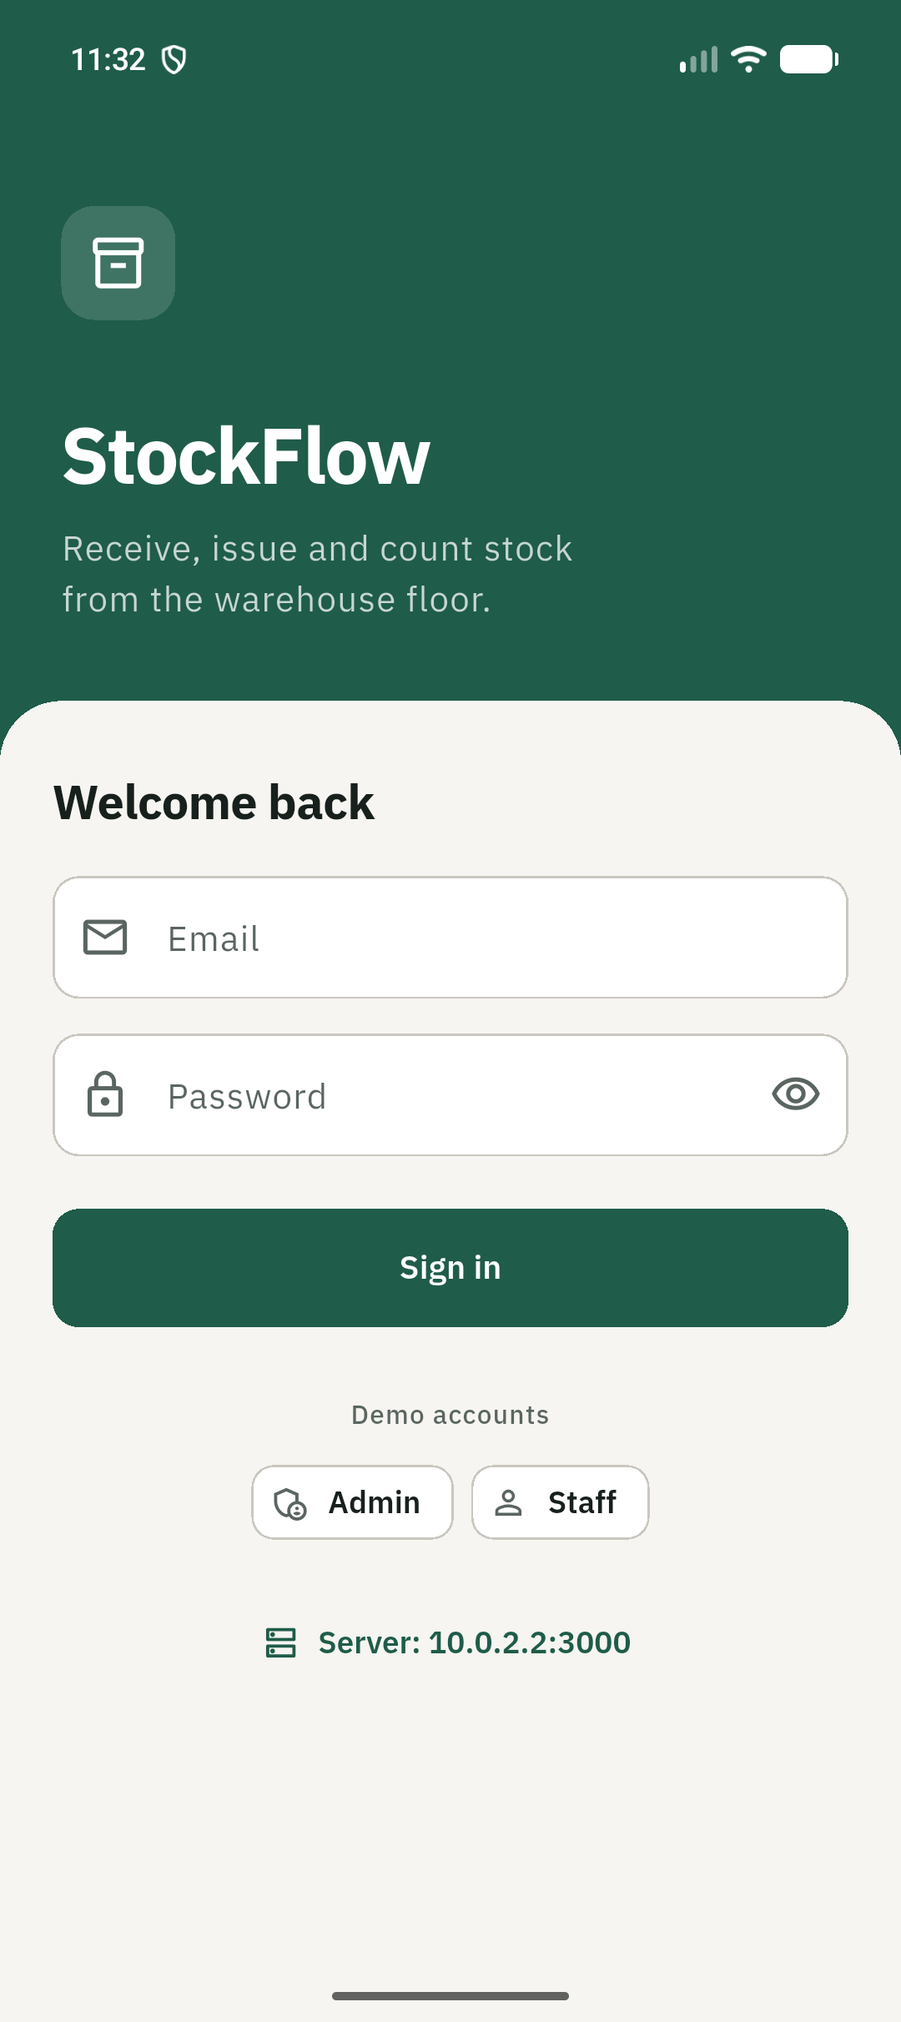
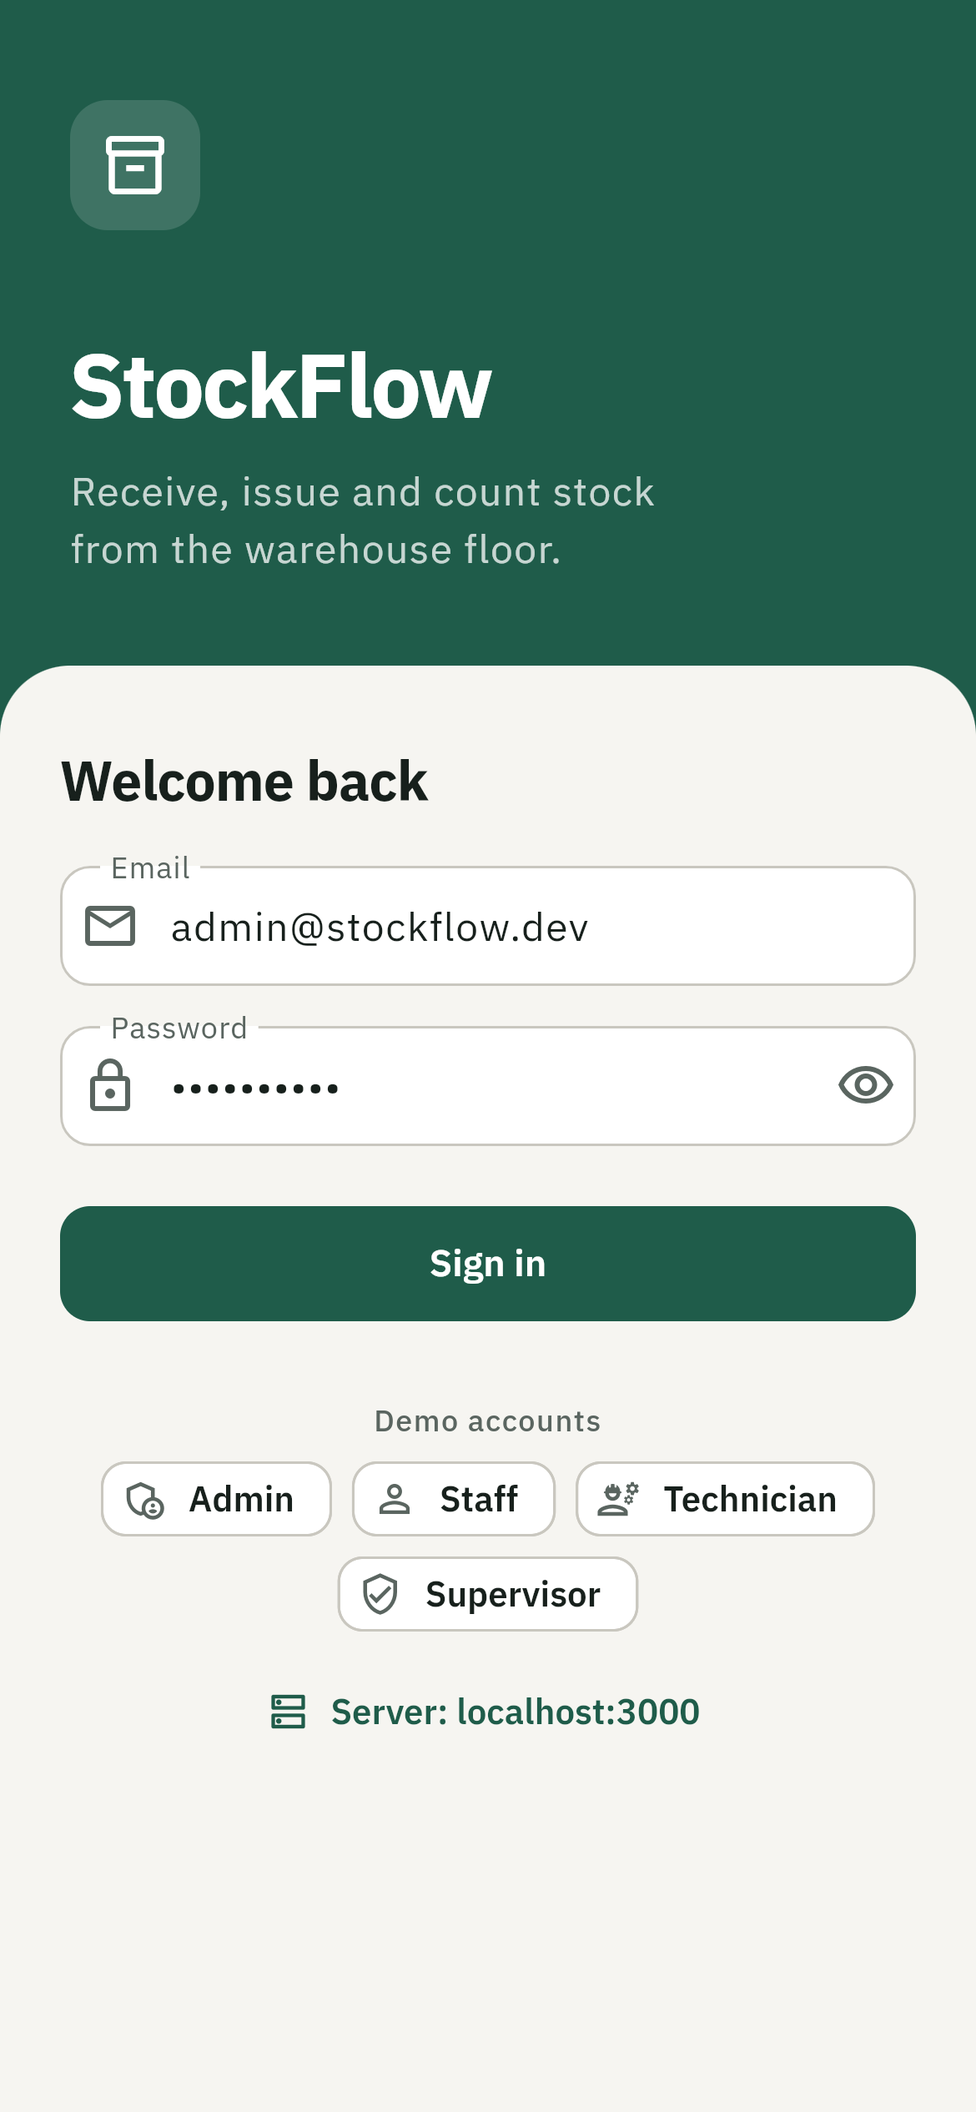
docs: inventory + field operations README, screenshots and docs
- README (EN/TH) now describes the combined product: workflow across the
  four roles, features, all demo accounts, new endpoints, real test
  counts (48 unit, 54 API, 65 Flutter), new seeds.
- Screenshots from the real app: technician job list and job detail,
  supervisor review; existing ones refreshed (login shows all roles).
- testing.md: work-order unit and API coverage, the live end-to-end run
  on Neon + Cloudinary and the measured latency before/after.
- security.md: authorization matrix for the four roles.
- offline-sync.md: work orders and linked drafts are online-only.
- architecture.md: links work-orders.md; module list updated.

diff --git a/README.md b/README.md
@@ -4,13 +4,19 @@
 
 [![CI](https://github.com/Foam-01/StockFlowMobile/actions/workflows/ci.yml/badge.svg)](https://github.com/Foam-01/StockFlowMobile/actions/workflows/ci.yml)
 
-A mobile inventory app for receiving, issuing and adjusting stock: barcode
-scanning, photo evidence, a live dashboard and a full, auditable movement
-history per product.
+**Inventory & field operations in one mobile app.** The warehouse receives,
+issues and adjusts stock. Managers create work orders and technicians
+complete them on site: checklist, before/after photos, materials issued from
+stock. Supervisors review and approve. Every stock movement and every
+work-order step is auditable.
 
 - **Mobile:** Flutter · Riverpod · go_router · Dio · mobile_scanner · sqflite
 - **Backend:** NestJS · Prisma · PostgreSQL (Neon) · JWT · Cloudinary
 - Built as a portfolio / demo project, run locally
+
+| Technician: jobs | Technician: job in progress | Supervisor: review |
+|---|---|---|
+| <img src="docs/screenshots/wo-tech-list.png" width="250" alt="Technician job list"> | <img src="docs/screenshots/wo-tech-detail.png" width="250" alt="Job with checklist and submit blockers"> | <img src="docs/screenshots/wo-review-detail.png" width="250" alt="Supervisor reviewing a submitted job"> |
 
 | Dashboard | Products | Product & history |
 |---|---|---|
@@ -20,36 +26,71 @@ history per product.
 |---|---|---|
 | <img src="docs/screenshots/operations.png" width="250" alt="Stock operations"> | <img src="docs/screenshots/new-operation.png" width="250" alt="New issue form"> | <img src="docs/screenshots/login.png" width="250" alt="Sign in"> |
 
+## How it fits together
+
+1. **Admin** creates a work order: site, checklist template, required
+   photos, planned materials, technician, optional reviewer.
+2. **Warehouse staff** issue the materials: an `ISSUE` document linked to the
+   job, pre-filled with what is still needed. Stock moves only when an admin
+   confirms it.
+3. **Technician** starts the job, ticks the checklist, adds notes and
+   before/after photos, and submits. The server refuses submission until
+   every required item and photo is there.
+4. **Supervisor** approves, or requests changes with a reason; the technician
+   resumes and resubmits.
+5. Every step is recorded in an append-only audit trail.
+
 ## Features
 
-- **Roles:** JWT login with `ADMIN` / `STAFF`; the token is kept in secure storage
+**Field operations**
+- Work orders with an explicit state machine
+  (`OPEN → IN_PROGRESS → SUBMITTED → APPROVED`, or `→ NEEDS_REVISION → IN_PROGRESS`; cancel with a reason)
+- Each transition is its own endpoint, checked on the server and applied
+  atomically with its audit event. Repeating a transition is harmless, and
+  concurrent decisions resolve to exactly one.
+- Checklists copied from templates (later template edits never change an
+  existing job); required before/after photos; planned vs issued materials
+  with shortage warnings
+- Role-based app: technicians see only their own jobs; supervisors start on
+  the review queue; buttons follow the server's `allowedActions`
+
+**Inventory**
 - **Dashboard:** stock KPIs, received vs issued over the last 7 days, products that need attention, recent activity
-- **Products:** search, category and low-stock filters, stock-level badges, infinite scroll
+- **Products:** search, category and low-stock filters, product photos, infinite scroll
 - **Barcode scanner:** scan to open a product, or scan items into a document (re-scan adds +1)
 - **Stock documents:** `RECEIVE`, `ISSUE` and `ADJUST`; `DRAFT` → `CONFIRMED` / `CANCELLED`
-  - stock only changes on confirm (admin), and can never be issued below zero, even with concurrent confirms
-  - resending a document with the same `clientUuid` never creates a duplicate
-- **Evidence photos:** camera or gallery, uploaded straight to Cloudinary with server-signed requests
+  - stock only changes on confirm (admin), and can never go below zero, even with concurrent confirms
+  - resending with the same `clientUuid` never creates a duplicate
+- **Evidence photos:** camera or gallery, uploaded straight to Cloudinary with server-signed, format- and size-limited requests
 - **Offline mode:** documents saved without a connection are queued in SQLite and synced automatically (no duplicates); products stay searchable and scannable offline
 - **History & audit:** movements per product with running balance; ledger vs cached stock check
-- Loading, empty and error states with retry on every screen
-- API docs via Swagger
 
-See **[docs/architecture.md](docs/architecture.md)** for diagrams: system overview, confirm flow, upload flow, offline sync and data model.
+**Engineering**
+- Server-side authorization on every endpoint, with resource-level checks (a
+  technician asking for someone else's job gets `404`)
+- Rate limiting, request logs without tokens or bodies, retries for a
+  sleeping serverless database
+- Loading, empty and error states with retry on every screen; Swagger API docs
+
+Docs: [architecture](docs/architecture.md) · [work orders](docs/work-orders.md) ·
+[offline sync](docs/offline-sync.md) · [security](docs/security.md) ·
+[testing](docs/testing.md) · decisions in [docs/adr](docs/adr)
 
 ## Project structure
 
 ```
 .
-├── .github/workflows/ci.yml   # backend + Flutter checks, release APK
+├── .github/workflows/ci.yml   # backend + API (Postgres) + Flutter checks, release APK
 ├── backend/   # NestJS API
-│   ├── prisma/          # schema, migrations, seed, demo history
-│   └── src/             # auth, products, stock, dashboard, attachments
-├── docs/      # architecture diagrams
+│   ├── prisma/          # schema, migrations, seeds (accounts, history, work orders, images)
+│   ├── src/             # auth, products, stock, dashboard, attachments, work-orders, users
+│   └── test/            # API tests against a real Postgres
+├── docs/      # architecture, work orders, security, testing, ADRs, screenshots
 └── mobile/    # Flutter app
     └── lib/
-        ├── core/        # api client, server URL config, router, widgets
-        └── features/    # auth, dashboard, products, operations, history, scanner, offline, profile
+        ├── core/        # api client, server URL config, router, theme, widgets
+        └── features/    # auth, dashboard, products, operations, history, scanner,
+                         # offline, work_orders, profile
 ```
 
 ## Getting started
@@ -69,8 +110,9 @@ cd backend
 npm install
 cp .env.example .env      # fill in DATABASE_URL, DIRECT_URL, JWT_SECRET, CLOUDINARY_*
 npx prisma migrate deploy
-npx prisma db seed        # demo accounts and products
-npm run seed:history      # optional: 6 days of demo movements for the dashboard
+npx prisma db seed        # demo accounts, products, checklist templates
+npm run seed:history      # optional: 6 days of demo stock movements
+npm run seed:work-orders  # optional: one demo work order in every status
 npm run seed:images       # optional: product photos to Cloudinary (see docs/image-credits.md)
 npm run start:dev
 ```
@@ -80,15 +122,17 @@ npm run start:dev
 - Health check: `http://localhost:3000/health`
 
 Without `CLOUDINARY_*`, everything works except photo upload, which reports
-"not configured". `seed:history` is safe to re-run: it replaces its own
-demo rows and keeps the ledger consistent.
+"not configured". The demo seeds are re-runnable: they replace their own rows
+and keep the stock ledger consistent.
 
-**Demo accounts** (passwords come from `SEED_ADMIN_PASSWORD` / `SEED_STAFF_PASSWORD` in `.env`)
+**Demo accounts** (one tap each on the login screen; passwords from `SEED_*_PASSWORD` in `.env`)
 
 | Email | Role | Can |
 |---|---|---|
-| `admin@stockflow.dev` | ADMIN | everything, including confirming documents and editing products |
-| `staff@stockflow.dev` | STAFF | create drafts, scan, attach photos to own documents |
+| `admin@stockflow.dev` | ADMIN | everything: confirm stock documents, manage products, create, assign and cancel work orders, review |
+| `staff@stockflow.dev` | STAFF (warehouse) | stock drafts, scanning, issuing materials for jobs; jobs read-only |
+| `tech@stockflow.dev`, `tech2@stockflow.dev` | TECHNICIAN | own jobs only: start, checklist, photos, submit; product catalogue read-only |
+| `supervisor@stockflow.dev` | SUPERVISOR | review queue: approve or request changes; read stock documents |
 
 ### 2. Mobile
 
@@ -136,27 +180,38 @@ not for Play Store release.
 | GET | `/products` | List / search / filter products |
 | GET | `/products/barcode/:barcode` | Find a product by barcode |
 | POST / PATCH / DELETE | `/products/:id` | Manage products (admin) |
-| POST | `/transactions` | Create a draft (idempotent with `clientUuid`) |
-| GET | `/transactions` | List documents |
+| POST | `/transactions` | Create a stock draft, optionally linked to a work order |
 | POST | `/transactions/:id/confirm` | Confirm, which applies stock (admin) |
 | POST | `/transactions/:id/cancel` | Cancel a draft |
-| POST | `/transactions/:id/attachments/signature` | Sign a photo upload |
-| POST / DELETE | `/transactions/:id/attachments` | Save / delete a photo |
 | GET | `/products/:id/movements` | Movement history with running balance |
-| GET | `/products/:id/audit` | Ledger vs cached stock (admin) |
+| GET | `/work-orders` | Work orders visible to the caller (search, status filter) |
+| POST | `/work-orders` | Create (admin, idempotent with `clientUuid`) |
+| GET | `/work-orders/:id` | Detail with `allowedActions` and submit blockers |
+| POST | `/work-orders/:id/{start,submit,approve,request-changes,cancel}` | State transitions |
+| PUT | `/work-orders/:id/checklist/:itemId` | Tick an item / add a note |
+| POST / DELETE | `/work-orders/:id/evidence[/:id]` | Photos (signed upload) |
+| GET | `/work-orders/:id/events` | Audit trail |
 | GET | `/health` | Liveness check (no auth) |
 
-See Swagger at `/docs` for the full reference.
+The full list is in Swagger at `/docs` and in [docs/work-orders.md](docs/work-orders.md#api).
 
 ## Tests
 
+| Suite | Count |
+|---|---|
+| Backend unit (rules: stock, work orders, dashboard, signing, retry) | 48 |
+| Backend API tests against a real Postgres (auth, roles, transitions, concurrency, idempotency, inventory link) | 54 |
+| Flutter widget / unit tests | 65 |
+
 ```bash
-cd backend && npm test          # unit tests (Vitest): stock rules, ledger, dashboard, signing, retry
-cd mobile && flutter test       # widget / unit tests for every screen and flow
+cd backend && npm test          # unit tests
+cd backend && npm run test:e2e  # API tests; needs a disposable local Postgres (docs/testing.md)
+cd mobile && flutter test
 ```
 
-CI runs typecheck, lint, tests and build for the backend, plus format check,
-analyze and tests for the app, on every push and pull request.
+CI runs all of the above on every push and pull request, plus typecheck,
+lint, format, analyze and a release APK build. What is **not** covered yet
+(on-device testing, UI end-to-end) is listed in [docs/testing.md](docs/testing.md).
 
 ## Demo
 

diff --git a/docs/testing.md b/docs/testing.md
@@ -6,9 +6,9 @@ How StockFlow is tested, how to run it, and what is **not** covered yet.
 
 | Suite | Where | Count | Runs in CI |
 |---|---|---|---|
-| Backend unit tests (Vitest) | `backend/src/**/*.spec.ts` | 33 | ✅ |
-| Backend API tests (Vitest + supertest, real Postgres) | `backend/test/*.e2e-spec.ts` | 27 | ✅ (Postgres service container) |
-| Flutter widget + unit tests | `mobile/test/` | 54 | ✅ |
+| Backend unit tests (Vitest) | `backend/src/**/*.spec.ts` | 48 | ✅ |
+| Backend API tests (Vitest + supertest, real Postgres) | `backend/test/*.e2e-spec.ts` | 54 | ✅ (Postgres service container) |
+| Flutter widget + unit tests | `mobile/test/` | 65 | ✅ |
 | Release APK build | `mobile/` | — | ✅ (artifact `stockflow-apk`) |
 
 Counts are from the latest local run; CI runs the same suites on every push
@@ -44,6 +44,7 @@ can never touch a real database. Override the URL with `TEST_DATABASE_URL`.
 | `stock/stock-logic.spec.ts` | signed quantities, item validation, net deltas, "never below zero", ledger balance, running balances, allowed status transitions |
 | `dashboard/dashboard-logic.spec.ts` | 7-day buckets in the client's time zone, ADJUST excluded, attention ordering |
 | `attachments/cloudinary.spec.ts` | signature matches Cloudinary's published example; upload asset validation (host, account, folder, traversal); format/size limits are inside the signature |
+| `work-orders/work-order-logic.spec.ts` | who may do what in which state (every role × status), resume after changes requested, named reviewer, terminal states, transition table, submit requirements, issued-materials arithmetic |
 | `prisma/retry.spec.ts` | transient DB errors are retried with backoff; business errors are not; retry limit |
 
 ### Backend API tests: real HTTP, real Postgres
@@ -61,6 +62,20 @@ can never touch a real database. Override the URL with `TEST_DATABASE_URL`.
 | Evidence photos | only images in this transaction's folder on our account; creator/admin only; not on cancelled documents; signed fields carry the limits and never the secret |
 | Rate limiting | repeated wrong logins → 429 while `/health` stays available |
 
+#### Work orders (`test/work-orders.e2e-spec.ts`, 27 tests)
+
+| Area | Tests |
+|---|---|
+| Creating | checklist snapshot (independent of later template edits), materials, code, events; admin only; assignee must be a technician, reviewer a supervisor; status can't be set directly; `clientUuid` idempotent |
+| Visibility | technicians see only their own (others → **404**, not 403) in detail, events, actions and list; reassigning moves access; search by code and site |
+| Doing the work | starting never touches stock; start idempotent; only the assignee works, only while in progress; checklist items of another job rejected; submit refused until required items **and** required photos exist (exact list returned); submitted work is frozen |
+| Photos | only images in this job's folder on our account, only from the assignee; signed fields carry format/size limits, never the secret |
+| Review | only reviewers approve; approval recorded once; terminal after approval; named reviewer; request changes needs a reason → resume → resubmit → approve, with the full event sequence checked |
+| **Concurrency** | 5 parallel approvals → one event; approve racing request-changes → exactly one wins (200/409), one decision event |
+| Cancelling | admin only, with a reason; never after submission |
+| Inventory link | linked ISSUE draft doesn't move stock; confirm moves it once, shows planned vs issued, records `MATERIAL_ISSUED`; shortage computed; can't link to closed jobs or link adjustments |
+| Role boundaries | technicians can't create/list stock documents or open the dashboard; supervisors read but can't create; user directory admin-only without emails |
+
 The concurrency test was checked to have teeth: with the conditional stock
 update (`WHERE onHand >= qty`) removed, all 10 confirms succeed and the test
 fails.
@@ -76,6 +91,7 @@ fails.
 | `scanner_test.dart` | scan opens product, unknown barcode, cancel, scan-to-add increments |
 | `dashboard_test.dart` | KPIs, chart readout per day, table view, deep links to filtered lists, error/retry |
 | `evidence_test.dart` | attach from camera, upload failure message, permissions, delete |
+| `work_orders_test.dart` | tabs per role; default list per role; start → checklist tick (server state shown); submit disabled while blockers listed; server refusal shown; review note; request changes requires a reason; approve; admin create with validation; staff issues remaining materials linked to the job |
 | `server_settings_test.dart` | URL normalisation/validation, test connection, save |
 | `offline_logic_test.dart` | sync engine rules, SQLite outbox and product cache (in-memory SQLite), offline fallback that never hides server errors |
 | `offline_flow_test.dart` | save offline → queued → sync fails → sync succeeds with the **same clientUuid**; rejected item marked failed and discarded; offline banner; server errors not queued |
@@ -88,6 +104,16 @@ override, so no test needs a device.
 - Live Cloudinary upload: `.txt` rejected (400), upload without
   `allowed_formats` rejected (401 invalid signature), PNG accepted, delete
   removes the asset (checked through the Cloudinary Admin API).
+- **Full field workflow on the live stack** (local API → Neon → Cloudinary):
+  create → other technician gets 404 → linked issue confirmed (stock −1
+  exactly) → start (stock unchanged) → early submit refused with 4 reasons →
+  checklist → real photo upload → submit → technician can't approve →
+  request changes → resume → resubmit → approve → repeat approve (one
+  event). All passed; the test jobs and photos were removed afterwards.
+- **Latency on that run** (API in Bangkok, Neon in us-east-2): median 8.6 s per
+  work-order request before loading relations with joins, 1.9 s after
+  (detail load ~0.3 s). Remaining time is round trips inside write
+  transactions to a distant database region.
 - Request logs contain method, path, status, duration and user id only: no
   token, password or search term (checked on a running instance).
 - Neon cold start: the first requests after idle used to fail with `P1017`;

diff --git a/docs/security.md b/docs/security.md
@@ -21,13 +21,25 @@ ever exposed to the internet.
 Checked **on the server** for every request (`JwtAuthGuard` → `RolesGuard`),
 never only in the UI:
 
+Roles: `ADMIN` (manager), `STAFF` (warehouse), `TECHNICIAN`, `SUPERVISOR`.
+
 | Action | Who |
 |---|---|
-| Create drafts, scan, view | any signed-in user |
+| View products, scan | all roles |
+| Create stock drafts, cancel own drafts | ADMIN, STAFF |
+| View stock documents, dashboard | ADMIN, STAFF, SUPERVISOR |
 | Confirm a document (changes stock) | ADMIN |
 | Create/edit/delete products, categories; audit | ADMIN |
-| Cancel a draft | its creator or ADMIN |
-| Add/delete evidence photos | the document's creator or ADMIN; never on cancelled documents |
+| Stock document photos | the document's creator or ADMIN; never on cancelled documents |
+| View work orders | ADMIN, STAFF, SUPERVISOR: all · TECHNICIAN: **only assigned to them** (others → 404) |
+| Create, assign, cancel work orders | ADMIN |
+| Start, checklist, photos, submit | the assigned TECHNICIAN, only while the state allows |
+| Approve / request changes | SUPERVISOR (only the named one if set) or ADMIN |
+
+Work-order rules live in pure functions (`work-order-logic.ts`) used for both
+the API checks and the `allowedActions` the app receives, so the UI and the
+server can't disagree. Every transition re-checks the current status inside
+the database update.
 
 All of these are covered by API tests (see [testing.md](testing.md)).
 
@@ -53,7 +65,9 @@ All of these are covered by API tests (see [testing.md](testing.md)).
 - Before saving, the API checks the reported image is `https`, on
   `res.cloudinary.com`, in **our** account and in **this transaction's**
   folder, with no path traversal. Arbitrary URLs can't be attached.
-- At most 5 photos per document. Deleting a photo also deletes the asset.
+- At most 5 photos per stock document and 10 per work order (folder
+  `stockflow/work-orders/<id>`, same checks). Deleting a photo also deletes
+  the asset.
 
 ## Abuse protection
 

diff --git a/docs/architecture.md b/docs/architecture.md
@@ -2,7 +2,7 @@
 
 **English** | [ภาษาไทย](architecture.th.md)
 
-Related docs: [testing](testing.md) · [security](security.md) ·
+Related docs: [work orders](work-orders.md) · [testing](testing.md) · [security](security.md) ·
 [offline sync](offline-sync.md) · decisions:
 [001 offline storage](adr/001-offline-storage.md),
 [002 idempotency](adr/002-idempotency.md),
@@ -22,7 +22,7 @@ flowchart LR
 
   subgraph API["NestJS API"]
     Guards["JwtAuthGuard → RolesGuard"]
-    Modules["auth · products · stock<br/>dashboard · attachments"]
+    Modules["auth · products · stock · dashboard<br/>attachments · work-orders · users"]
     Logic["Pure domain logic<br/>(stock rules, ledger, flow)"]
     Prisma["Prisma client<br/>+ retry on transient errors"]
     Guards --> Modules --> Logic

diff --git a/docs/offline-sync.md b/docs/offline-sync.md
@@ -8,6 +8,8 @@ duplicates. Diagram: [architecture.md → Offline mode](architecture.md#offline-
 | Works offline | Online only (on purpose) |
 |---|---|
 | Creating RECEIVE / ISSUE / ADJUST **drafts** | Confirming or cancelling a document |
+| | Drafts linked to a work order (the queue can't carry the link yet, so they are never queued without it) |
+| | Everything in work orders (start, checklist, photos, submit, review) |
 | Searching products, picking items, barcode lookup (from cache) | Dashboard, history, photos |
 
 Confirming changes real stock and needs the server's current balance, so it

diff --git a/docs/architecture.th.md b/docs/architecture.th.md
@@ -16,7 +16,7 @@ flowchart LR
 
   subgraph API["NestJS API"]
     Guards["JwtAuthGuard → RolesGuard"]
-    Modules["auth · products · stock<br/>dashboard · attachments"]
+    Modules["auth · products · stock · dashboard<br/>attachments · work-orders · users"]
     Logic["Pure domain logic<br/>(stock rules, ledger, flow)"]
     Prisma["Prisma client<br/>+ retry on transient errors"]
     Guards --> Modules --> Logic
